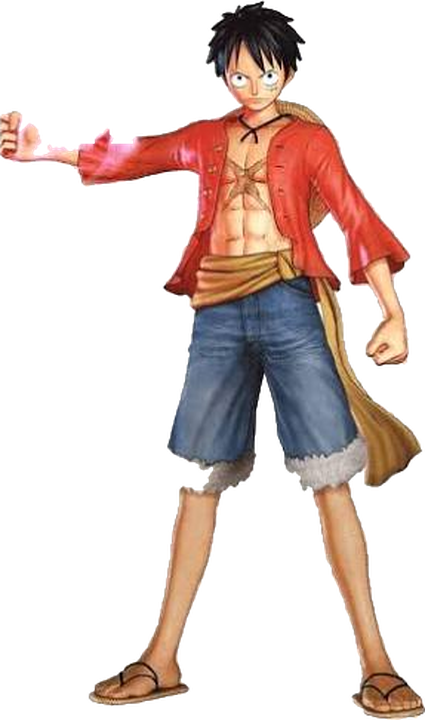
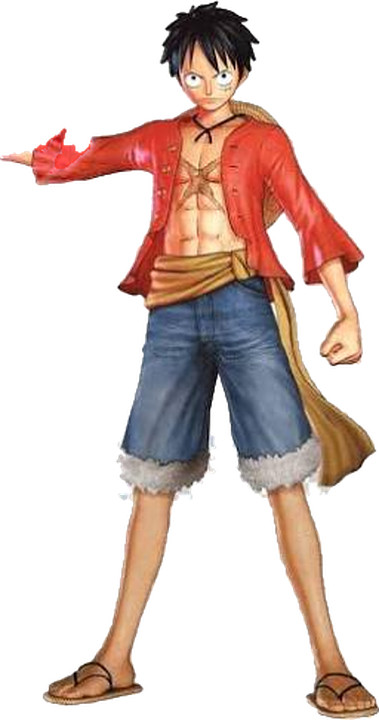
Duel: sprite Luffy repare, idle ondulant, Kamehameha Finger Heart

diff --git a/combat-goku-luffy.html b/combat-goku-luffy.html
@@ -105,7 +105,7 @@ const fighters = {
 const other = k => k === 'luffy' ? 'goku' : 'luffy';
 
 let particles = [], rings = [], scorches = [], texts = [], bolts = [], callouts = [];
-let shake = 0, flash = 0, speed = 1, hitstop = 0, camZoom = 1, camX = W / 2;
+let blueFlash = 0, shake = 0, flash = 0, speed = 1, hitstop = 0, camZoom = 1, camX = W / 2;
 let over = null, overT = 0, teams = {}, dmg = {}, lastWinMsg = '', baseInv = new DOMMatrix();
 let state = JSON.parse(localStorage.getItem(SAVE) || '{"wins":{"luffy":0,"goku":0},"dmg":{}}');
 dmg = state.dmg || {};
@@ -173,12 +173,15 @@ function newMatch() {
   over = null; dmg = {}; scorches = []; save(); renderBoard();
 }
 
-function act(who, coins, user, avatar) {
+function act(who, coins, user, avatar, giftName) {
   if (over) return;
+  const fh = /finger\s*heart|doigt.*c[oœ]ur/i.test(giftName || '');
+  if (fh) who = 'goku';
   callout(who, user, avatar);
   const f = fighters[who];
   if (f.todo.length > 6) return;
-  if (coins >= 50) f.todo.push({ kind: 'transform', user });
+  if (fh) f.todo.push({ kind: 'kame', user, dmg: 22 });
+  else if (coins >= 50) f.todo.push({ kind: 'transform', user });
   else if (coins >= 10) f.todo.push({ kind: who === 'goku' ? 'kame' : 'pistol', user, dmg: 22 });
   else if (coins >= 5) for (let i = 0; i < 3; i++) f.todo.push({ kind: 'punch', hand: i % 2 ? 'B' : 'F', dmg: 4, dur: 17, user });
   else f.todo.push({ kind: 'punch', hand: 'F', dmg: 6, dur: 23, user });
@@ -222,7 +225,7 @@ function stepAnim(f, foe, dt) {
       shake = Math.max(shake, 2 + k * 4);
     } else {
       const tt = t - 75, x0 = f.fistF.x, y0 = f.fistF.y;
-      if (!a.shouted) { a.shouted = 1; say('HAAAAA !!!', f.x, 190, '#ffffff', 70); flash = Math.max(flash, .8); shake = 18; }
+      if (!a.shouted) { a.shouted = 1; say('HAAAAA !!!', f.x, 190, '#ffffff', 70); flash = 1; blueFlash = 1; shake = 22; foe.pushV += sd * 6; }
       const dist = Math.abs(foe.x - x0) - RIG[ok].hb, head = Math.min(dist, tt * 55);
       a.head = head;
       const impact = head >= dist - 1;
@@ -357,7 +360,8 @@ function drawArm(f, R, side, front, sh, el, img) {
 }
 
 function drawAura(f, time) {
-  const col = f.ssj > 0 ? [255, 210, 40] : f.rage > 0 ? [255, 70, 40] : null;
+  const kc = f.anim && f.anim.kind === 'kame' && f.anim.t < 110;
+  const col = kc ? [90, 190, 255] : f.ssj > 0 ? [255, 210, 40] : f.rage > 0 ? [255, 70, 40] : null;
   if (!col) return;
   const h = RIG[f.key].h, fl = time / 90;
   ctx.save(); ctx.globalCompositeOperation = 'lighter';
@@ -391,7 +395,7 @@ const RUN = { goku: ['run'], luffy: ['run'] };
 // rot : inclinaison (rad, + = vers l'avant) ; dx : décalage avant (px) ; sy : écrasement vertical
 const POSES = {
   idle: {}, run: { rot: .1, dx: 6 }, jump: { rot: .04, sy: 1.03 }, guard: { rot: -.03, sy: .97 },
-  charge: { rot: -.1, dx: -10, sy: .9 }, fire: { rot: .02, dx: -16, sy: .92 },
+  charge: { rot: -.06, dx: -8, sy: .78, sx: 1.1 }, fire: { rot: .02, dx: -14, sy: .8, sx: 1.1 },
   windup: { rot: -.2, dx: -16 }, punchA: { rot: .22, dx: 28 }, punchB: { rot: .14, dx: 14 },
   hurt: { rot: -.3, dx: -18 }, hurt2: { rot: -.15, dx: -9 }, fall: { rot: -.8, dx: -26 },
   ko: { rot: -1.5, dx: -50 }, win: { rot: 0, sy: 1.02 }
@@ -436,12 +440,21 @@ function drawFighter(f, time) {
   ctx.scale(f.dir, 1);
   ctx.translate(p.dx || 0, 0);
   ctx.rotate((p.rot || 0) + (running ? .06 * Math.sin(time / 95) : 0));
-  ctx.scale(1, (p.sy || 1) * breath);
+  ctx.scale(p.sx || 1, (p.sy || 1) * breath);
   ctx.save(); ctx.scale(S.native, 1);
   const split = f.key === 'luffy' && f.anim && f.anim.kind === 'pistol' && f.anim.t >= 10;
   // pendant le Pistol, le bras tendu est retiré du corps : il est redessiné par drawPistol (maillage étiré)
   if (split) { ctx.beginPath(); ctx.rect(-dw / 2 + ARM.cut * dw / img.naturalWidth, -dh * 1.2, dw, dh * 1.5); ctx.clip(); }
-  ctx.drawImage(img, -dw / 2, -dh, dw, dh);
+  if (split) ctx.drawImage(img, -dw / 2, -dh, dw, dh);
+  else {
+    // tranches horizontales : cheveux/vêtements ondulent, pieds immobiles
+    const n = 90, sh = img.naturalHeight / n, t = time / 420, ph = f.key === 'goku' ? 1.3 : 0, amp = f.hurt > .15 ? 0 : 1;
+    for (let i = 0; i < n; i++) {
+      const yn = (i + .5) / n, w = Math.pow(1 - yn, 1.6);
+      const ox = amp * (Math.sin(t + ph + yn * 5) * 2.2 * w + (yn < .16 ? Math.sin(t * 2.3 + ph + yn * 40) * 1.6 : 0) + (yn > .45 && yn < .8 ? Math.sin(t * 1.7 + yn * 12 + ph) * 1.3 * w : 0));
+      ctx.drawImage(img, 0, i * sh, img.naturalWidth, sh + 1, -dw / 2 + ox, -dh + i * dh / n, dw, dh / n + .8);
+    }
+  }
   ctx.restore();
   // points d'ancrage des effets, suivis à travers la pose (poing, torse)
   const at = (nx, ny) => {
@@ -742,6 +755,7 @@ function frame(time) {
   const vg = ctx.createRadialGradient(W / 2, H / 2, H * .35, W / 2, H / 2, H * .95);
   vg.addColorStop(0, 'rgba(0,0,0,0)'); vg.addColorStop(1, 'rgba(0,0,0,.55)');
   ctx.fillStyle = vg; ctx.fillRect(0, 0, W, H);
+  if (blueFlash > .03) { const g = ctx.createRadialGradient(W / 2, H / 2, 40, W / 2, H / 2, W * .75); g.addColorStop(0, 'rgba(255,255,255,' + blueFlash * .5 + ')'); g.addColorStop(1, 'rgba(60,150,255,' + blueFlash * .45 + ')'); ctx.fillStyle = g; ctx.fillRect(0, 0, W, H); blueFlash *= .9; }
   if (flash > .05) { ctx.fillStyle = 'rgba(255,255,255,' + flash * .4 + ')'; ctx.fillRect(0, 0, W, H); }
   drawBars(); drawCallouts();
   if (over) {
@@ -765,7 +779,7 @@ function teamOf(user) {
   if (!teams[user]) teams[user] = Math.random() < .5 ? 'luffy' : 'goku';
   return teams[user];
 }
-function onGift(user, coins, avatar) { act(teamOf(user), coins, user, avatar); }
+function onGift(user, coins, avatar, giftName) { act(teamOf(user), coins, user, avatar, giftName); }
 function renderBoard() {
   const rows = Object.entries(dmg).sort((a, b) => b[1] - a[1]).slice(0, 5);
   document.getElementById('boardRows').innerHTML = rows.map(([u, d]) => '<div><span>' + u.replace(/[<>&]/g, '') + '</span><b>' + d + '</b></div>').join('') || '<i>—</i>';
@@ -776,7 +790,7 @@ function handleMessage(d) {
     if (u && t === '1') teams[u] = 'luffy'; else if (u && t === '2') teams[u] = 'goku';
   } else if (d.type === 'gift' || d.type === 'tiktok-gift') {
     const x = d.gift || d;
-    onGift(x.uniqueId || x.username || x.nickname || 'inconnu', x.coinCount ?? ((x.coinValue ?? x.diamondCount ?? x.diamonds ?? 1) * (x.repeatCount || 1)), x.avatarDataUri || x.profilePictureUrl || '');
+    onGift(x.uniqueId || x.username || x.nickname || 'inconnu', x.coinCount ?? ((x.coinValue ?? x.diamondCount ?? x.diamonds ?? 1) * (x.repeatCount || 1)), x.avatarDataUri || x.profilePictureUrl || '', x.giftName || x.name || x.gift_name || '');
   }
 }
 let ws;
